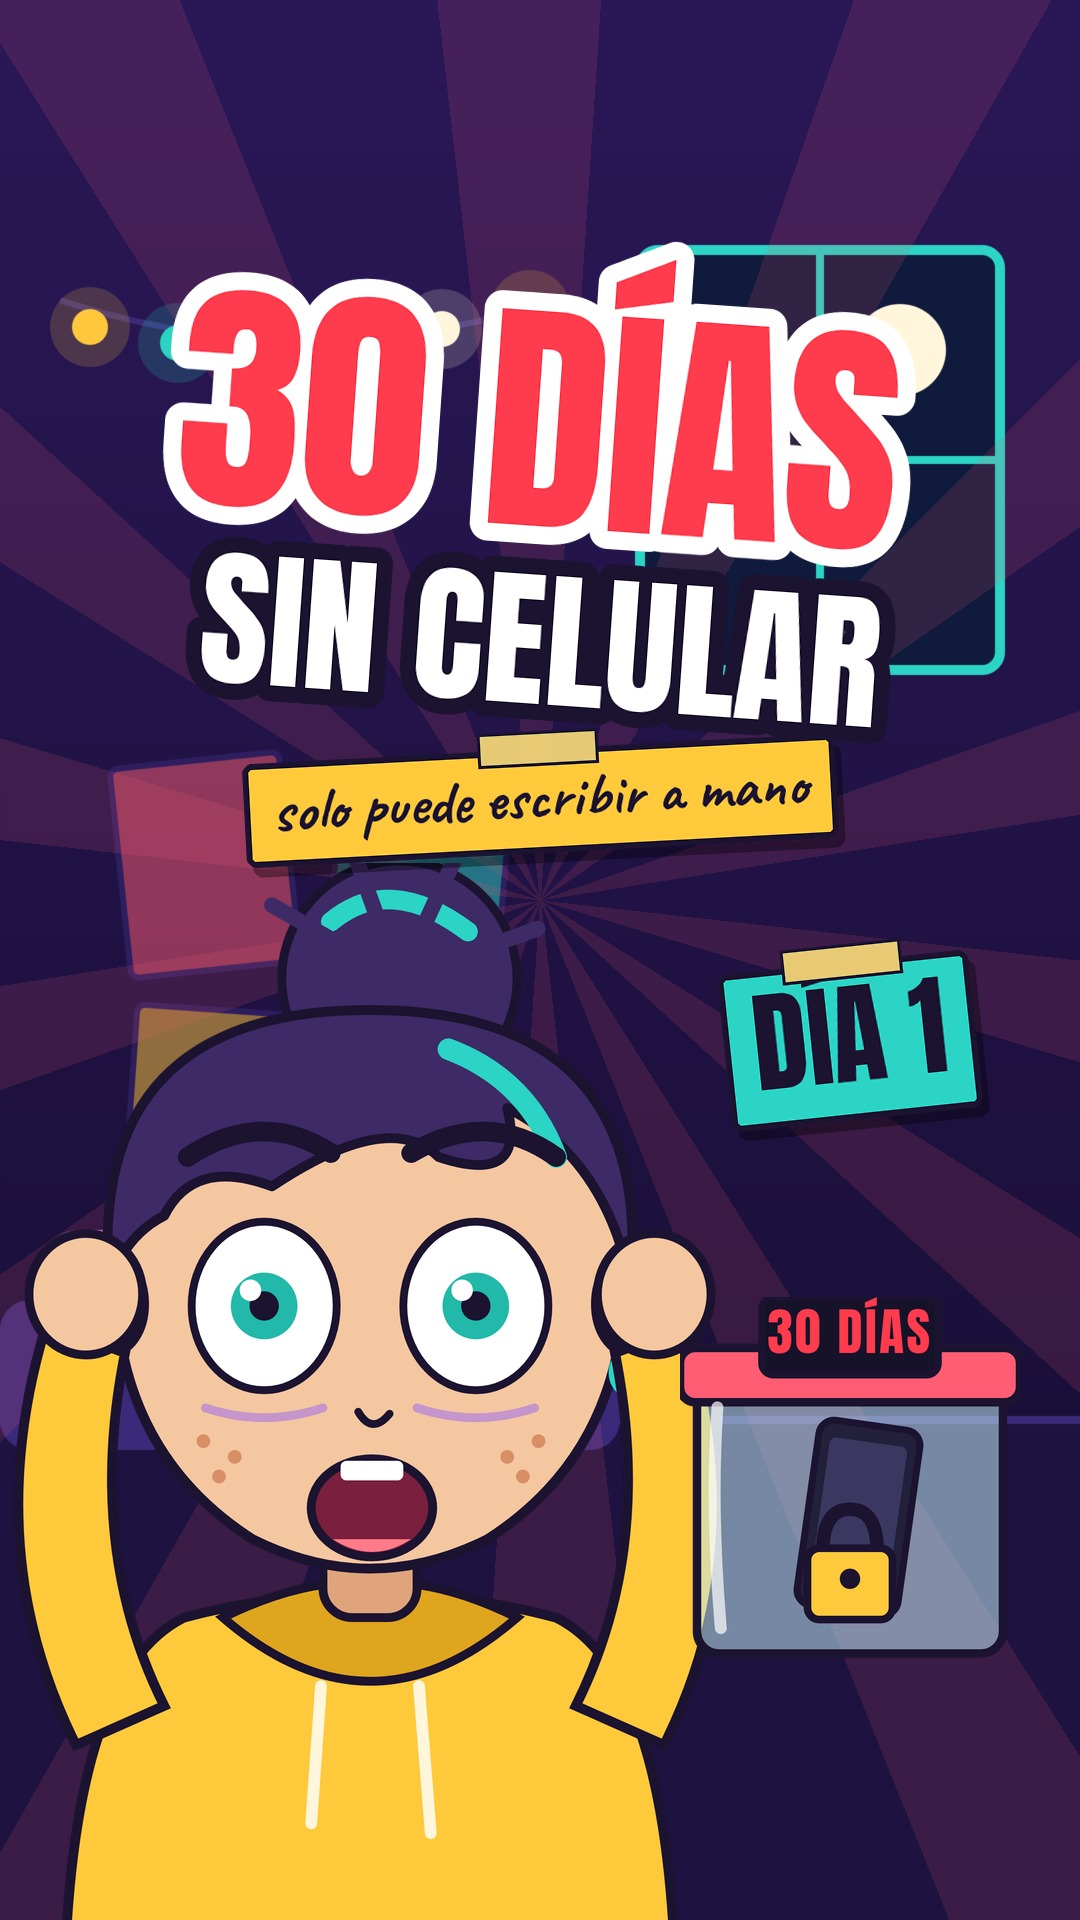
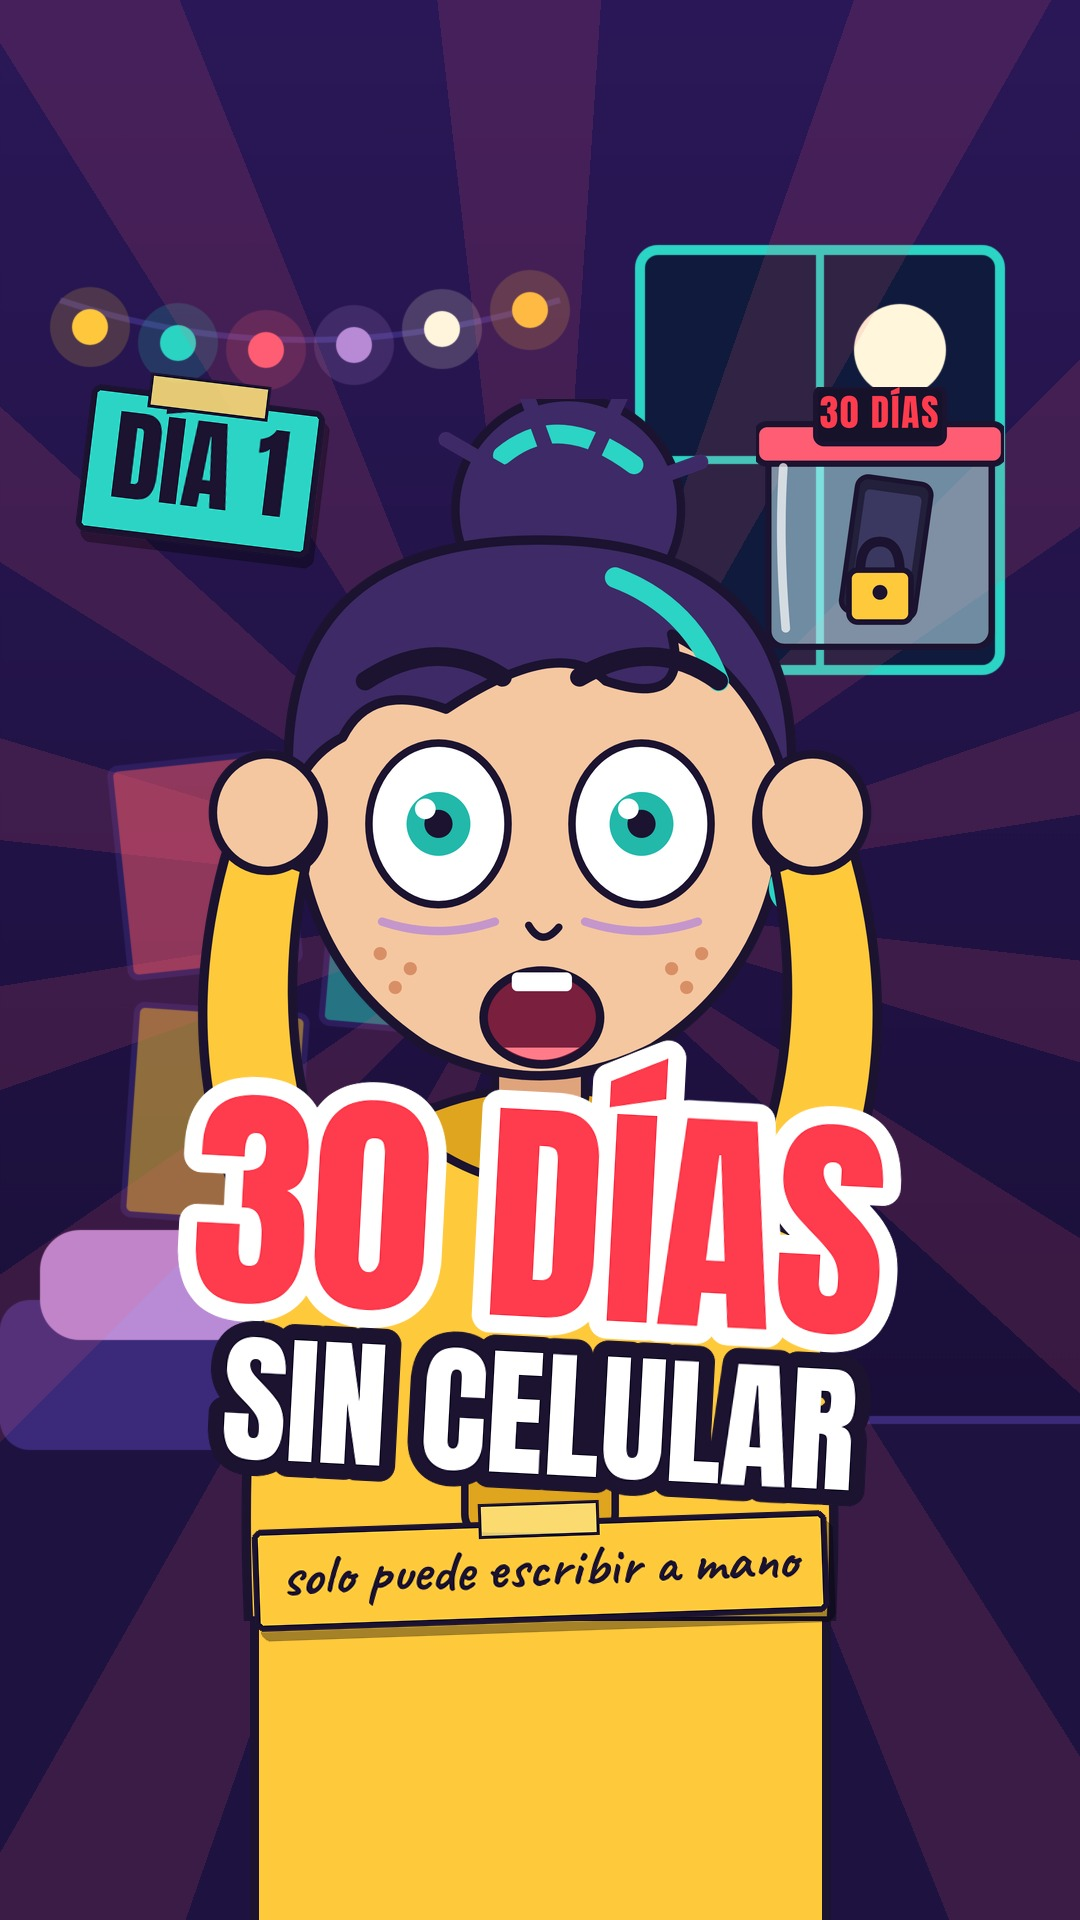
Vale día 1: portada centrada para la cuadrícula de TikTok
Claude-Session: https://claude.ai/code/session_01NdJoArMrGbMDWGBL12rqNM

diff --git a/vale30/portada_v1.py b/vale30/portada_v1.py
@@ -1,9 +1,11 @@
-"""Portada 9:16 del Día 1 de «30 días sin celular»."""
+"""Portada 9:16 del Día 1 de «30 días sin celular». Todo lo importante dentro del recorte central 3:4 de la cuadrícula de TikTok (y 240-1680)."""
 import render_v1 as V
 from PIL import ImageDraw
 c = V.bg("bg_cuarto", 0, 0, 1.0, 1.0, 1, .5, .5); V.rayos(c, 1.3, V.ROSA, 540, 900, 34)
-V.put(c, "vale_shock_manos", 370, 1500, .98); V.caja_big(c, 850, 1480, .85, 0)
-V.titulo(c, "30 DÍAS", 540, 420, 250, V.ROJO, -4, 1, 18, sfill=V.BLANCO); V.titulo(c, "SIN CELULAR", 540, 640, 150, V.BLANCO, -4, 1, 16)
-V.papel(c, "solo puede escribir a mano", 540, 800, 60, 3, 1, V.AMA, f=V.F_HAND)
-V.papel(c, "DÍA 1", 850, 1040, 110, 6, 1, V.TUR, V.OL, V.F_ANTON)
+d = ImageDraw.Draw(c); d.rectangle((540 - 290, 1500, 540 + 290, 1930), fill=V.AMA, outline=V.OL, width=9)
+V.put(c, "vale_shock_manos", 540, 1010, .94)
+V.caja_big(c, 880, 520, .62, 0); V.papel(c, "DÍA 1", 200, 470, 100, -7, 1, V.TUR, V.OL, V.F_ANTON)
+V.titulo(c, "30 DÍAS", 540, 1215, 240, V.ROJO, -3, 1, 18, sfill=V.BLANCO); V.titulo(c, "SIN CELULAR", 540, 1415, 140, V.BLANCO, -3, 1, 16)
+V.papel(c, "solo puede escribir a mano", 540, 1570, 58, 2, 1, V.AMA, f=V.F_HAND)
 c.convert("RGB").save(V.HERE + "/portada_vale_dia1_9x16.jpg", quality=92)
+g = c.convert("RGB").copy(); ImageDraw.Draw(g).rectangle((0, 240, 1079, 1680), outline=(0, 255, 0), width=6); g.save("/home/claude/an/cov.jpg", quality=80)
